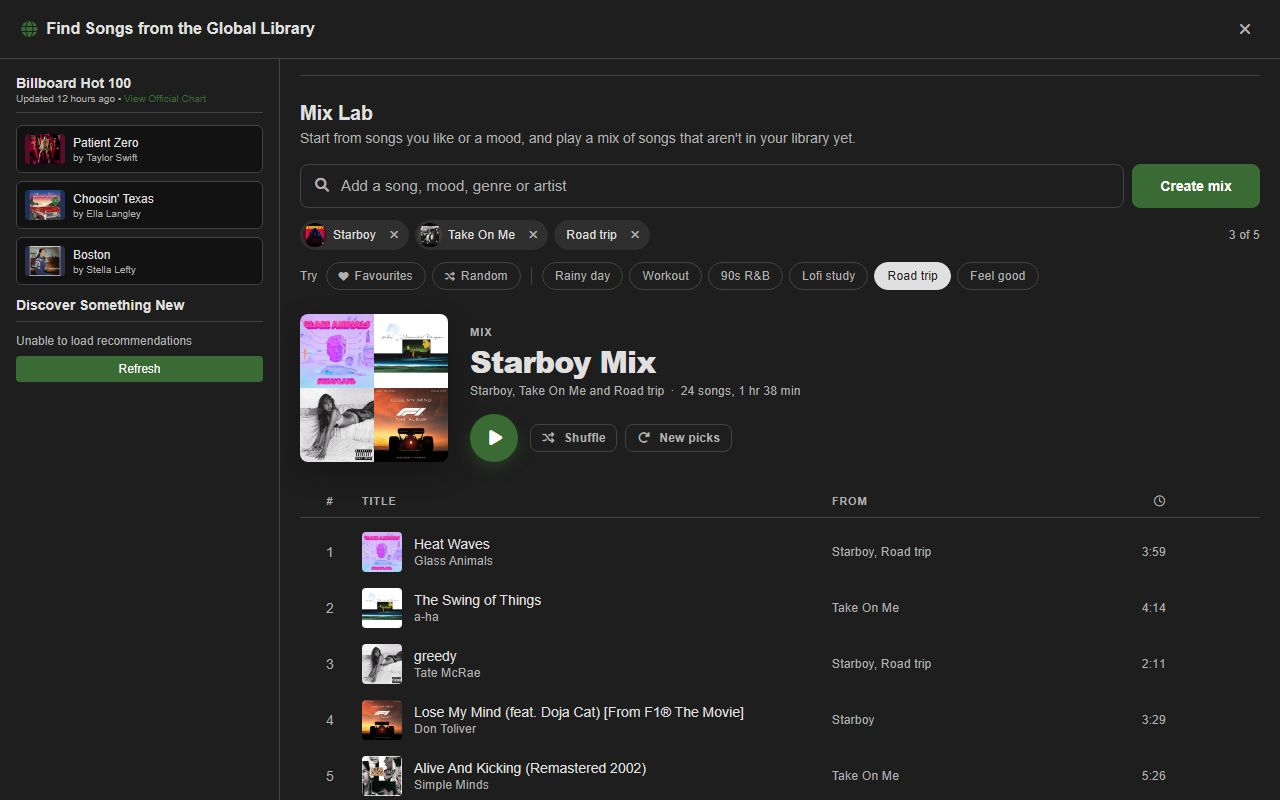
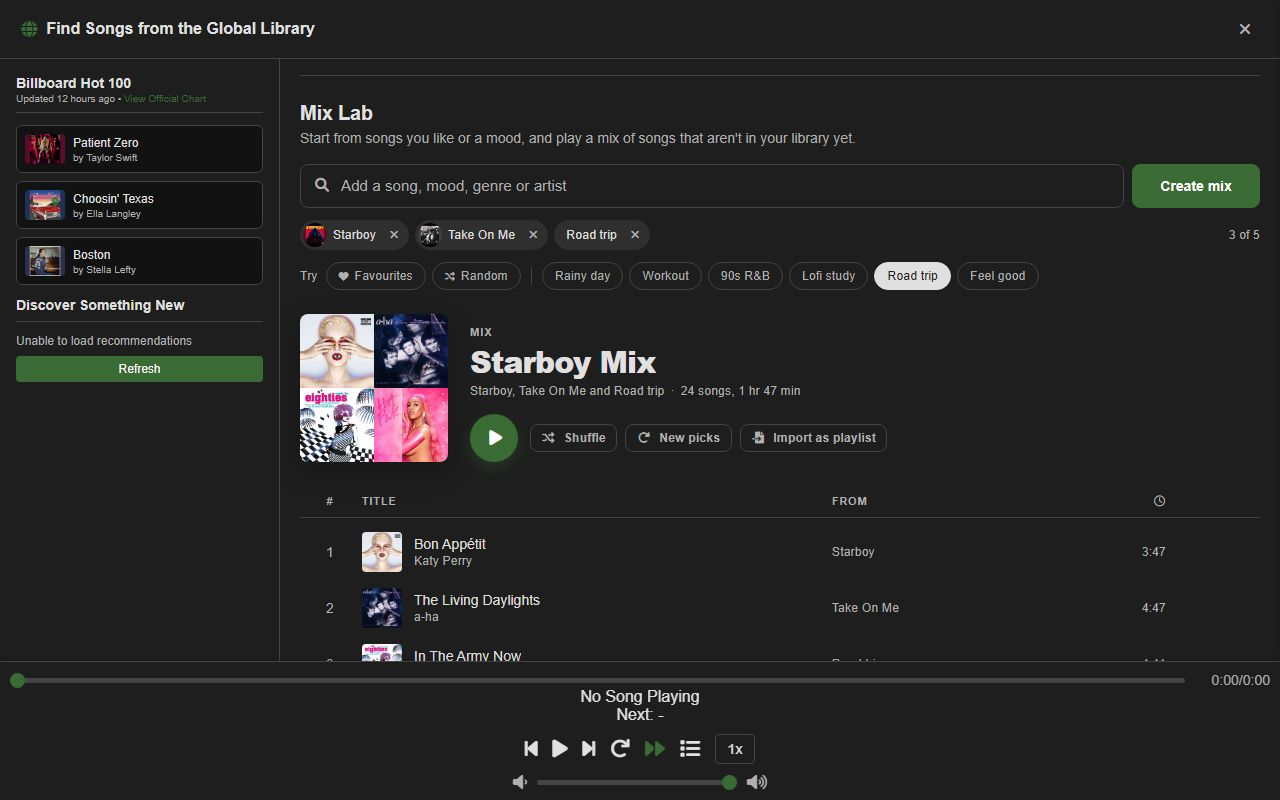
v76.3.0: Import a Mix Lab mix as a playlist
Import as playlist resolves every song in the mix (cached rows first,
then YouTube three at a time with a live count), adds the new ones to
the library through addImportedSongsOneByOne, and saves the mix as a
playlist through createImportedPlaylists, in mix order. Songs already in
the library are reused, unfindable songs are skipped and counted, and a
taken name gets a numeric suffix. It builds the song and playlist
objects directly instead of going through the comma-separated import
text, so titles with commas survive.

diff --git a/public/script.js b/public/script.js
@@ -13564,6 +13564,8 @@ class AdvancedMusicPlayer {
       rows: new Map(),
       view: null,
       buildController: null,
+      importing: null,
+      importedToken: -1,
       status: 'idle',
       token: 0,
       playlist: null
@@ -13876,6 +13878,8 @@ class AdvancedMusicPlayer {
       this.playMixLab(null, true);
     } else if (mixAction === 'next') {
       this.playNextSong();
+    } else if (mixAction === 'import') {
+      this.importMixLabPlaylist();
     } else if (mixAction === 'add') {
       this.addMixLabTrackToLibrary(key);
     } else if (mixAction === 'hide') {
@@ -14259,9 +14263,126 @@ class AdvancedMusicPlayer {
     const art = (covers.length === 4 ? covers : covers.slice(0, 1)).map(src => `<img src="${this.escapeHtml(src)}" alt="" decoding="async">`).join('');
     const title = this.escapeHtml(this.mixLabTitle(lab.basis));
     const notes = lab.notes.length ? `<p class="mix-lab__note">Nothing found for ${this.escapeHtml(lab.notes.join(', '))}, so ${lab.notes.length === 1 ? 'it was' : 'they were'} left out.</p>` : '';
-    el.innerHTML = `<div class="mix-lab-hero"><div class="mix-lab-hero__art${covers.length === 4 ? ' mix-lab-hero__art--grid' : ''}">${art}</div><div class="mix-lab-hero__info"><span class="mix-lab-hero__eyebrow">Mix</span><h4 class="mix-lab-hero__title">${title}</h4><p class="mix-lab-hero__meta">${this.escapeHtml(this.mixLabBasisText(lab.basis))}<span class="mix-lab-hero__dot" aria-hidden="true">·</span><span class="mix-lab-hero__summary">${this.mixLabSummaryText()}</span></p><div class="mix-lab-hero__actions"><button type="button" class="mix-lab-hero__play" data-mix-action="play" aria-label="Play mix" title="Play"><i class="fas fa-play"></i></button><button type="button" class="mix-lab-hero__next" data-mix-action="next" aria-label="Next song" title="Next song"><i class="fas fa-forward-step"></i></button><button type="button" class="ui-btn ui-btn--ghost ui-btn--sm" data-mix-action="shuffle"><i class="fas fa-shuffle"></i> Shuffle</button><button type="button" class="ui-btn ui-btn--ghost ui-btn--sm" data-mix-action="refresh"><i class="fas fa-rotate-right"></i> New picks</button></div></div></div>${notes}<div class="mix-lab-list__head" aria-hidden="true"><span>#</span><span>Title</span><span>From</span><span><i class="far fa-clock"></i></span><span></span></div><ol class="mix-lab-list"></ol>`;
+    el.innerHTML = `<div class="mix-lab-hero"><div class="mix-lab-hero__art${covers.length === 4 ? ' mix-lab-hero__art--grid' : ''}">${art}</div><div class="mix-lab-hero__info"><span class="mix-lab-hero__eyebrow">Mix</span><h4 class="mix-lab-hero__title">${title}</h4><p class="mix-lab-hero__meta">${this.escapeHtml(this.mixLabBasisText(lab.basis))}<span class="mix-lab-hero__dot" aria-hidden="true">·</span><span class="mix-lab-hero__summary">${this.mixLabSummaryText()}</span></p><div class="mix-lab-hero__actions"><button type="button" class="mix-lab-hero__play" data-mix-action="play" aria-label="Play mix" title="Play"><i class="fas fa-play"></i></button><button type="button" class="mix-lab-hero__next" data-mix-action="next" aria-label="Next song" title="Next song"><i class="fas fa-forward-step"></i></button><button type="button" class="ui-btn ui-btn--ghost ui-btn--sm" data-mix-action="shuffle"><i class="fas fa-shuffle"></i> Shuffle</button><button type="button" class="ui-btn ui-btn--ghost ui-btn--sm" data-mix-action="refresh"><i class="fas fa-rotate-right"></i> New picks</button><button type="button" class="ui-btn ui-btn--ghost ui-btn--sm mix-lab-hero__import" data-mix-action="import"></button></div></div></div>${notes}<div class="mix-lab-list__head" aria-hidden="true"><span>#</span><span>Title</span><span>From</span><span><i class="far fa-clock"></i></span><span></span></div><ol class="mix-lab-list"></ol>`;
     this.appendMixLabRows(lab.results);
+    this.syncMixLabImportButton();
     this.syncMixLabPlayback();
+  }
+  syncMixLabImportButton() {
+    const lab = this.mixLab;
+    const button = lab.resultsEl.querySelector('.mix-lab-hero__import');
+    if (!button) {
+      return;
+    }
+    const importing = lab.importing && lab.importing.token === lab.token ? lab.importing : null;
+    const imported = lab.importedToken === lab.token;
+    button.disabled = Boolean(importing || imported || lab.importing);
+    button.classList.toggle('is-busy', Boolean(importing));
+    button.classList.toggle('is-saved', imported);
+    button.title = imported ? 'This mix is in your playlists' : 'Add every song to your library and save them as a playlist';
+    button.innerHTML = importing ? `<i class="fas fa-circle-notch fa-spin"></i> Importing ${importing.done} of ${importing.total}` : imported ? '<i class="fas fa-check"></i> Saved as playlist' : '<i class="fas fa-file-import"></i> Import as playlist';
+  }
+  uniqueMixLabPlaylistName(base) {
+    const taken = new Set(this.playlists.map(playlist => playlist.name.toLowerCase()));
+    let name = base;
+    for (let n = 2; taken.has(name.toLowerCase()); n++) {
+      name = `${base} ${n}`;
+    }
+    return name;
+  }
+  async importMixLabPlaylist() {
+    const lab = this.mixLab;
+    if (lab.importing || !lab.results.length || lab.importedToken === lab.token) {
+      return;
+    }
+    const token = lab.token;
+    const tracks = lab.results.slice();
+    const title = this.mixLabTitle(lab.basis);
+    lab.importing = {
+      token: token,
+      done: 0,
+      total: tracks.length
+    };
+    this.syncMixLabImportButton();
+    const rows = new Array(tracks.length);
+    let cursor = 0;
+    const worker = async () => {
+      while (cursor < tracks.length) {
+        const index = cursor++;
+        try {
+          rows[index] = await this.resolveMixLabTrack(tracks[index]);
+        } catch (error) {
+          console.warn('Mix Lab could not find a song to import:', tracks[index].title, error);
+        }
+        lab.importing.done += 1;
+        this.syncMixLabImportButton();
+      }
+    };
+    try {
+      await Promise.all([ worker(), worker(), worker() ]);
+      const library = new Map(this.songLibrary.map(song => [ song.videoId, song ]));
+      const ids = new Set(this.songLibrary.map(song => song.id));
+      const seen = new Set();
+      const added = [];
+      const entries = [];
+      rows.forEach((row, index) => {
+        if (!row || !row.yt_id || seen.has(row.yt_id)) {
+          return;
+        }
+        seen.add(row.yt_id);
+        const owned = library.get(row.yt_id);
+        const name = owned ? owned.name : tracks[index].title;
+        const author = owned ? owned.author || '' : tracks[index].artist;
+        if (!owned) {
+          let id = Date.now() + added.length;
+          while (ids.has(id)) {
+            id += 1;
+          }
+          ids.add(id);
+          added.push({
+            id: id,
+            name: name,
+            author: author,
+            videoId: row.yt_id,
+            favorite: false,
+            lyrics: '',
+            addedOn: (new Date()).toISOString()
+          });
+        }
+        entries.push({
+          videoId: row.yt_id,
+          name: name,
+          author: author,
+          entryId: Date.now() + Math.random() * 1e4
+        });
+      });
+      if (!entries.length) {
+        this.showNotification('Couldn’t find any of these songs on YouTube. Try again later.', 'error');
+        return;
+      }
+      const name = this.uniqueMixLabPlaylistName(title);
+      if (added.length) {
+        await this.addImportedSongsOneByOne(added);
+      }
+      await this.createImportedPlaylists([ {
+        name: name,
+        songs: entries
+      } ]);
+      lab.importedToken = token;
+      const searchTerm = this.elements.librarySearch ? this.elements.librarySearch.value.trim() : '';
+      searchTerm === '' ? this.renderLibraryView() : this.renderSongLibrary(searchTerm.toLowerCase());
+      this.updatePlaylistSelection();
+      this.renderPlaylists();
+      const missing = tracks.length - entries.length;
+      this.showNotification(`Saved "${name}" to your playlists with ${entries.length} songs${missing ? `, ${missing} couldn’t be found` : ''}`, 'success');
+    } catch (error) {
+      console.error('Mix Lab import failed:', error);
+      this.showNotification('Couldn’t save this mix. Please try again.', 'error');
+    } finally {
+      lab.importing = null;
+      this.syncMixLabLibraryState();
+      this.syncMixLabImportButton();
+    }
   }
   appendMixLabRows(tracks) {
     const lab = this.mixLab;

diff --git a/public/tutorial.html b/public/tutorial.html
@@ -184,10 +184,11 @@
           </ul>
           <p>Click <strong>Create mix</strong> to get up to 24 songs, none of them already in your library, each showing which pick it came from. The round <strong>Play</strong> button plays the whole mix in the player and <strong>Shuffle</strong> plays it in random order. Click a song to play the mix from that song. Next, previous, autoplay, the playlist side panel and the miniplayer work as they do for any playlist, and when the mix is nearly over, more songs like it are added so it keeps going.</p>
           <p>Hover a song for <strong>+</strong>, which opens Add Song with the name, artist and link filled in, and <strong>&times;</strong>, which hides it. <strong>New picks</strong> makes a fresh mix from the same picks.</p>
-          <p><span class="tag">Tip</span> A mix isn't saved: it plays until you play something else, so add the songs you want to keep. In glass mode with album-art backgrounds turned on, the background shows the cover of the song that's playing.</p>
+          <p><strong>Import as playlist</strong> keeps the whole mix: every song is added to your library and saved as a new playlist named after the mix, in the same order. Songs you already have are reused rather than added twice, and anything that can't be found on YouTube is left out and counted in the message at the end.</p>
+          <p><span class="tag">Tip</span> A mix you only play isn't saved: it lasts until you play something else, so import it or add the songs you want to keep. In glass mode with album-art backgrounds turned on, the background shows the cover of the song that's playing.</p>
         </div>
         <figure class="shot">
-          <img src="/learn/shots/mix-lab.jpg" width="1280" height="800" loading="lazy" alt="Mix Lab in the Global library with two songs and the Road trip mood picked, and the mix shown as a playlist: a cover collage, a Play button, and a numbered list of songs with their artist, the pick they came from and their length.">
+          <img src="/learn/shots/mix-lab.jpg" width="1280" height="800" loading="lazy" alt="Mix Lab in the Global library with two songs and the Road trip mood picked, and the mix shown as a playlist: a cover collage, Play, Shuffle, New picks and Import as playlist buttons, and a numbered list of songs with their artist, the pick they came from and their length. The control bar stays at the bottom.">
           <figcaption>A mix made from two songs and a mood.</figcaption>
         </figure>
         <div class="prose">

diff --git a/public/style.css b/public/style.css
@@ -9884,6 +9884,19 @@ body.control-bar-hidden .playlist-sidebar.expanded-mode .sidebar-songs-list {
   color: var(--text-primary);
 }
 
+.mix-lab-hero__actions .mix-lab-hero__import:is(.is-busy, .is-saved) {
+  opacity: 1;
+  cursor: default;
+}
+
+.mix-lab-hero__actions .mix-lab-hero__import.is-busy {
+  cursor: progress;
+}
+
+.mix-lab-hero__import.is-saved i {
+  color: var(--accent-color);
+}
+
 .mix-lab-list__head,
 .mix-lab-row {
   display: grid;

diff --git a/CODEMAP.md b/CODEMAP.md
@@ -12,7 +12,7 @@ not hold what this file claims, regenerate, or `grep -n "  methodName("`.
 
 | Source | sha256 (first 12) | Lines |
 |---|---|---|
-| `public/script.js` | `e77c502e7364` | 17704 |
+| `public/script.js` | `e6fe99b2fd2c` | 17825 |
 | `public/index.html` | `23d4f3a792fa` | 1524 |
 | `public/script/settings.js` | `b1cbbfc3625b` | 561 |
 | `public/karaoke-player.js` | `ec6846376de2` | 683 |
@@ -38,7 +38,7 @@ not hold what this file claims, regenerate, or `grep -n "  methodName("`.
 
 ---
 
-## `AdvancedMusicPlayer` by topic (691 methods)
+## `AdvancedMusicPlayer` by topic (694 methods)
 
 Names only. `grep -n "^  name(" public/script.js` gives the current line, and a name
 here that you cannot find has been renamed since this file was generated.
@@ -57,7 +57,7 @@ here that you cannot find has been renamed since this file was generated.
 
 ### Playlists
 
-`_refreshPlaylistsShelf` · `_buildPlaylistsShelf` · `_buildPlaylistShelfTile` · `_buildCreatePlaylistShelfTile` · `_openCreatePlaylistFromShelf` · `createPlaylist` · `updatePlaylistEditModeButton` · `renderPlaylists` · `filterPlaylists` · `playTopPlaylistSearchResult` · `toggleCreatePlaylistDiv` · `hideCreatePlaylistDiv` · `openPlaylistEditModal` · `renderCurrentPlaylistSongs` · `searchSongsToAddToPlaylist` · `clearPlaylistDuplicates` · `reversePlaylistOrder` · `randomizePlaylist` · `updatePlaylistSelection` · `removeSongFromPlaylist` · `closePlaylistModal` · `deletePlaylist` · `playPlaylist` · `setupPlaylistNameEditing` · `cancelPlaylistNameEdit` · `handlePlaylistDragStart` · `handlePlaylistDragOver` · `handlePlaylistDrop` · `getPlaylistDragAfterElement` · `getPlaylistDuration` · `getPlaylistDurationText` · `renderPlaylistSidebar` · `renderPlaylistSidebarExpandedMode` · `renderPlaylistSidebarOverlayMode` · `applyPlaylistSidebarMode` · `setupPlaylistSidebarModeListeners` · `filterPlaylistSidebarSongs` · `exportPlaylist` · `showPlaylistSelectionForExport` · `exportSongsWithAllPlaylists` · `createImportedPlaylists` · `searchPremadePlaylistsSupabase` · `extendMixLabPlaylist`
+`_refreshPlaylistsShelf` · `_buildPlaylistsShelf` · `_buildPlaylistShelfTile` · `_buildCreatePlaylistShelfTile` · `_openCreatePlaylistFromShelf` · `createPlaylist` · `updatePlaylistEditModeButton` · `renderPlaylists` · `filterPlaylists` · `playTopPlaylistSearchResult` · `toggleCreatePlaylistDiv` · `hideCreatePlaylistDiv` · `openPlaylistEditModal` · `renderCurrentPlaylistSongs` · `searchSongsToAddToPlaylist` · `clearPlaylistDuplicates` · `reversePlaylistOrder` · `randomizePlaylist` · `updatePlaylistSelection` · `removeSongFromPlaylist` · `closePlaylistModal` · `deletePlaylist` · `playPlaylist` · `setupPlaylistNameEditing` · `cancelPlaylistNameEdit` · `handlePlaylistDragStart` · `handlePlaylistDragOver` · `handlePlaylistDrop` · `getPlaylistDragAfterElement` · `getPlaylistDuration` · `getPlaylistDurationText` · `renderPlaylistSidebar` · `renderPlaylistSidebarExpandedMode` · `renderPlaylistSidebarOverlayMode` · `applyPlaylistSidebarMode` · `setupPlaylistSidebarModeListeners` · `filterPlaylistSidebarSongs` · `exportPlaylist` · `showPlaylistSelectionForExport` · `exportSongsWithAllPlaylists` · `createImportedPlaylists` · `searchPremadePlaylistsSupabase` · `extendMixLabPlaylist` · `uniqueMixLabPlaylistName` · `importMixLabPlaylist`
 
 ### YouTube & search
 
@@ -85,7 +85,7 @@ here that you cannot find has been renamed since this file was generated.
 
 ### Settings, import & export
 
-`disguiseIconUrl` · `applyFaviconDisguise` · `showExportDropdown` · `hideExportDropdown` · `addImportedSongsOneByOne` · `setupExportButtonListeners` · `handleOpenSettings` · `handleCloseSettings` · `initializeSettingsContent` · `getSetting` · `initializeAdvertisementSettings` · `initDiscordConnection` · `closeDiscordConnection` · `sendDiscordRPC` · `updateDiscordButtonUI` · `_discordRefreshSteps` · `_discordShowError` · `_discordShowSuccess` · `_discordSyncPreview` · `_discordSyncFields` · `_discordOnFieldEdit` · `_discordResetFields` · `_discordSendNow` · `_discordScheduleSend` · `_discordGetAuto` · `_discordGetEffective` · `_discordSyncLastUpdate` · `_discordStartLastUpdateTick` · `_discordStopLastUpdateTick` · `_discordRetry`
+`disguiseIconUrl` · `applyFaviconDisguise` · `showExportDropdown` · `hideExportDropdown` · `addImportedSongsOneByOne` · `setupExportButtonListeners` · `handleOpenSettings` · `handleCloseSettings` · `initializeSettingsContent` · `getSetting` · `initializeAdvertisementSettings` · `syncMixLabImportButton` · `initDiscordConnection` · `closeDiscordConnection` · `sendDiscordRPC` · `updateDiscordButtonUI` · `_discordRefreshSteps` · `_discordShowError` · `_discordShowSuccess` · `_discordSyncPreview` · `_discordSyncFields` · `_discordOnFieldEdit` · `_discordResetFields` · `_discordSendNow` · `_discordScheduleSend` · `_discordGetAuto` · `_discordGetEffective` · `_discordSyncLastUpdate` · `_discordStartLastUpdateTick` · `_discordStopLastUpdateTick` · `_discordRetry`
 
 ### Uncategorised
 

diff --git a/public/changelog.md b/public/changelog.md
@@ -794,3 +794,4 @@ From your library no longer leaves an empty strip under its compact tiles: when 
 Added Mix Lab to the Global library: pick up to five songs from your library, or type a vibe like "rainy day", "90s R&B" or "songs like Daft Punk", and Make my mix finds up to 24 songs that aren't in your library yet, each labelled with the pick it came from. Click a cover to preview the official topic track (each song is looked up on YouTube once and then shared through the Global library cache, so later previews don't use any search quota), + opens Add Song with the name, artist and link filled in, New picks deals a fresh set and the x hides a song you don't want. The rest of the player is now hidden while the Global library is open, so glass mode no longer shows the library through it. Song previews now pause whatever was playing and carry on afterwards, show the song's name with an Add to library button, and in glass mode with album-art backgrounds the background follows the song you're previewing v76.0.0
 Mix Lab mixes now play straight through like a playlist: the round Play button plays the whole mix in the player, Shuffle plays it in random order, and clicking a song plays the mix from there, with next, previous, autoplay, the playlist side panel and the miniplayer working as they do for any playlist. Each song's official topic track is looked up just before it plays (the next one in advance, so there's no gap) and more songs are added as the mix nears its end, so it keeps going. Mix Lab also has a cleaner layout: the mix shows as a playlist with a cover collage, a title, its song count and length, and a numbered track list with each song's artist, the pick it came from and its length, with the playing song marked; picks are now songs from your library or a mood, genre or artist v76.1.0
 The control bar now stays at the bottom while the Global library is open, so you can pause, skip and change speed without leaving it, and its playlist button opens the side panel over the Global library. The Global library also opens straight away instead of waiting for its database connection, starts connecting as soon as you point at its button, and no longer reloads the Billboard top three and random picks every time it opens (Refresh deals new picks without a network request). Mix Lab stays fast with long mixes, loads smaller covers in its song list, and cancels its catalog requests when you start a new mix v76.2.0
+Mix Lab can now keep a whole mix: Import as playlist adds every song in it to your library and saves them as a new playlist named after the mix, in the same order, with a live count while it works. Songs you already have are reused instead of added twice, songs that can't be found on YouTube are left out and counted, and importing another mix with the same name saves it as "Mix 2" v76.3.0
